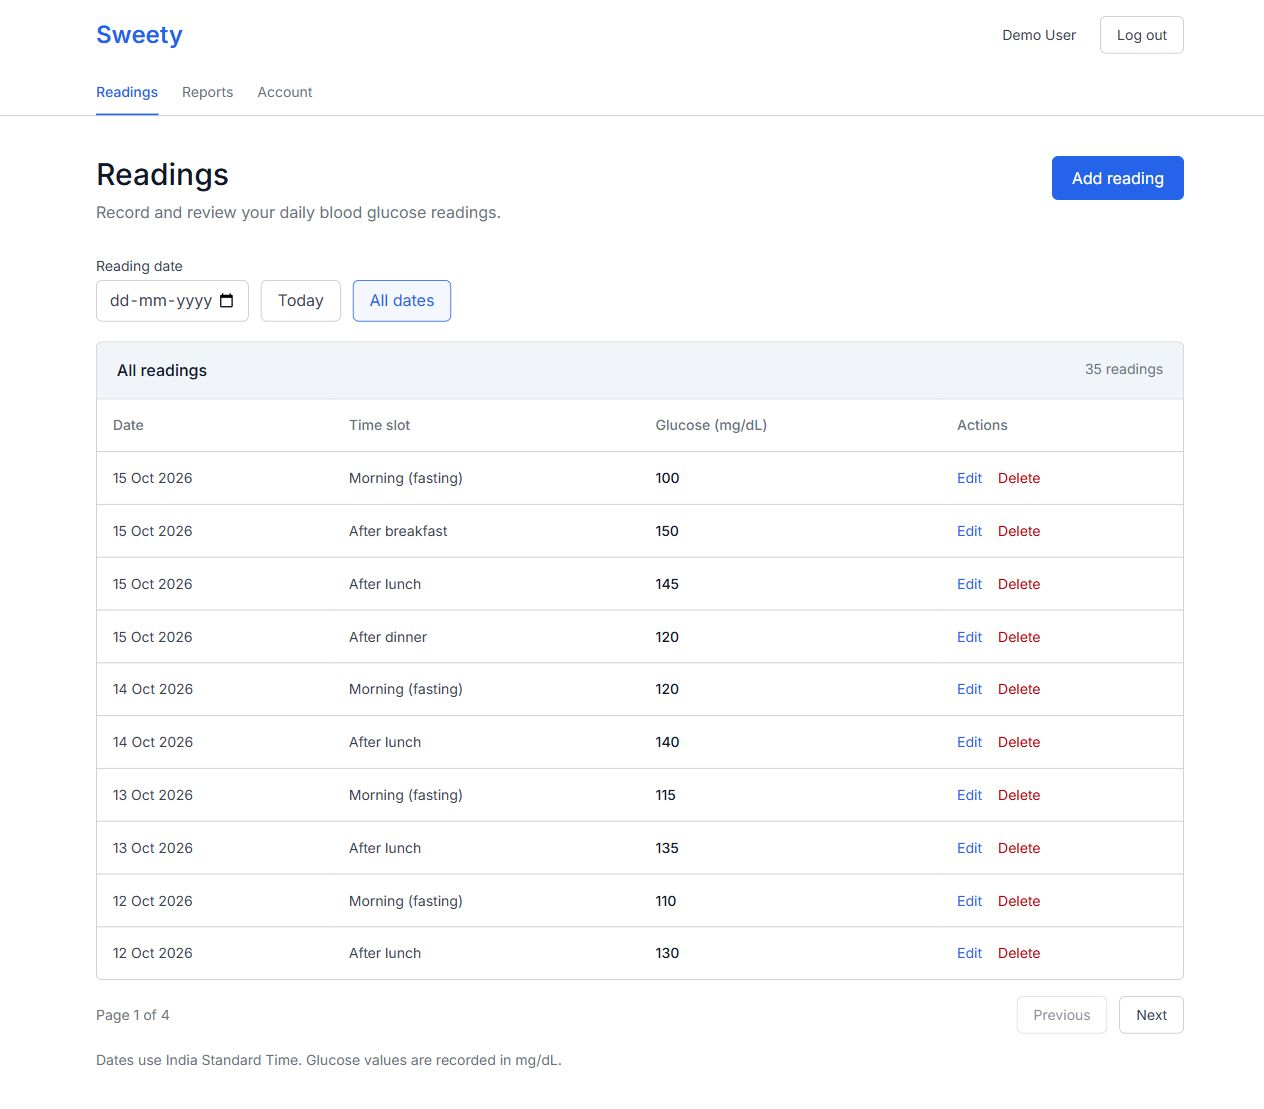
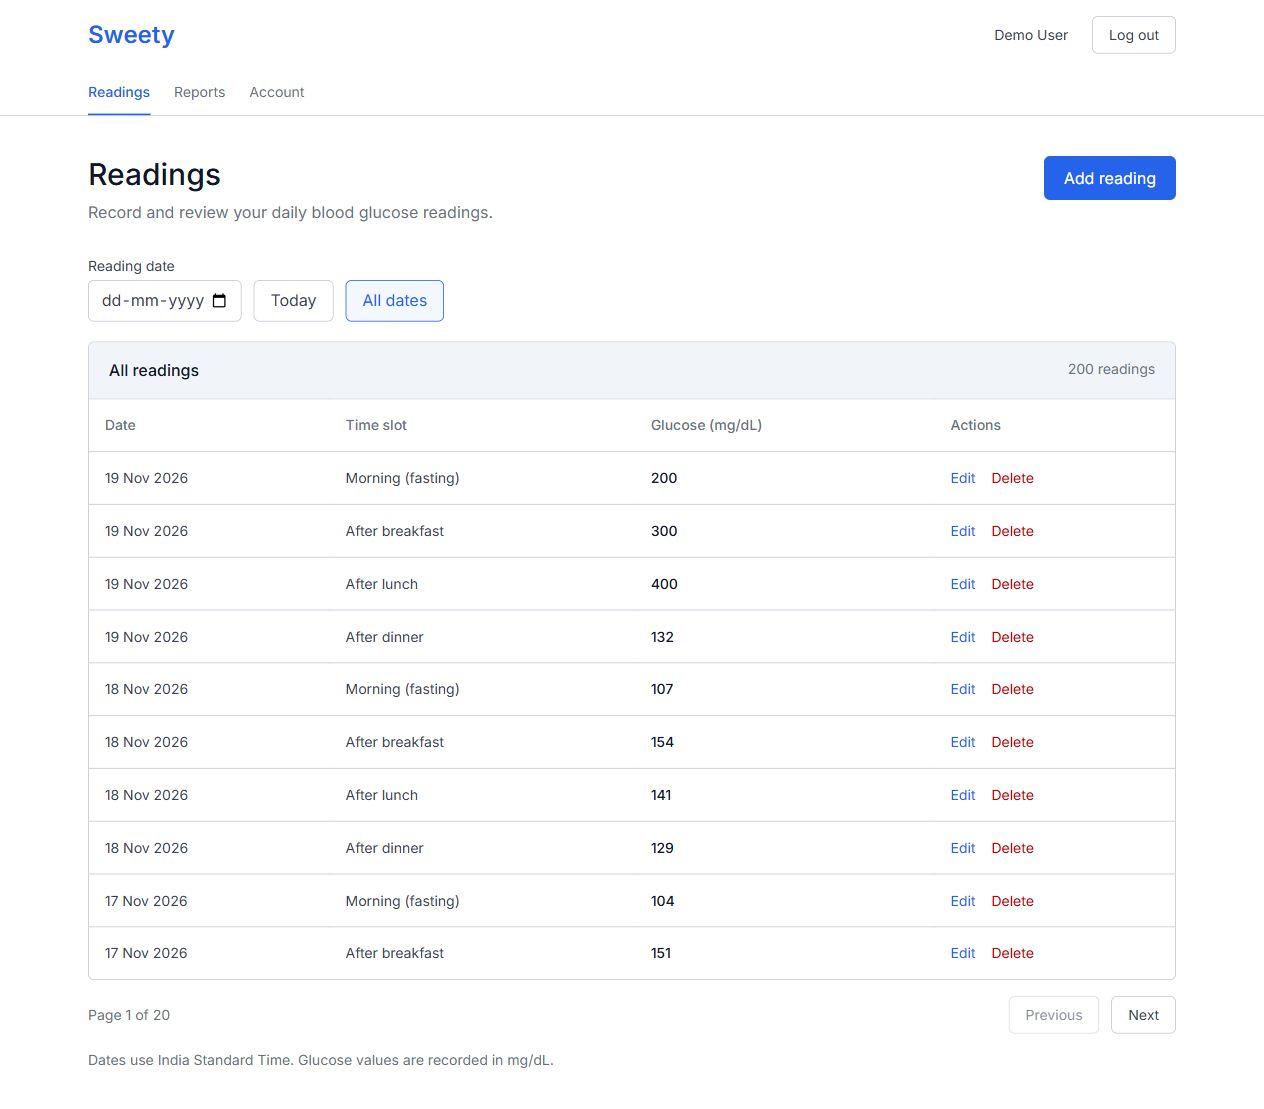
updated final application screenshots

diff --git a/README.md b/README.md
@@ -101,9 +101,11 @@ The script also adds sample readings in all four slots from the start of the pre
 
 ## Screenshots
 
-[Readings](screenshots/readings.jpg) · [Monthly report](screenshots/monthly-report.jpg) · [Mobile form](screenshots/mobile-form.jpg)
+[Login](screenshots/login.jpg) · [Registration](screenshots/registration.jpg) · [Readings](screenshots/readings.jpg) · [Mobile reading form](screenshots/mobile-form.jpg)
 
-The screenshots use sample data from an isolated test database.
+[Daily report](screenshots/daily-report.jpg) · [Month-to-date report](screenshots/monthly-report.jpg) · [Previous-month report](screenshots/previous-month-report.jpg)
+
+The screenshots show the demo account with sample readings.
 
 ## Notes
 
